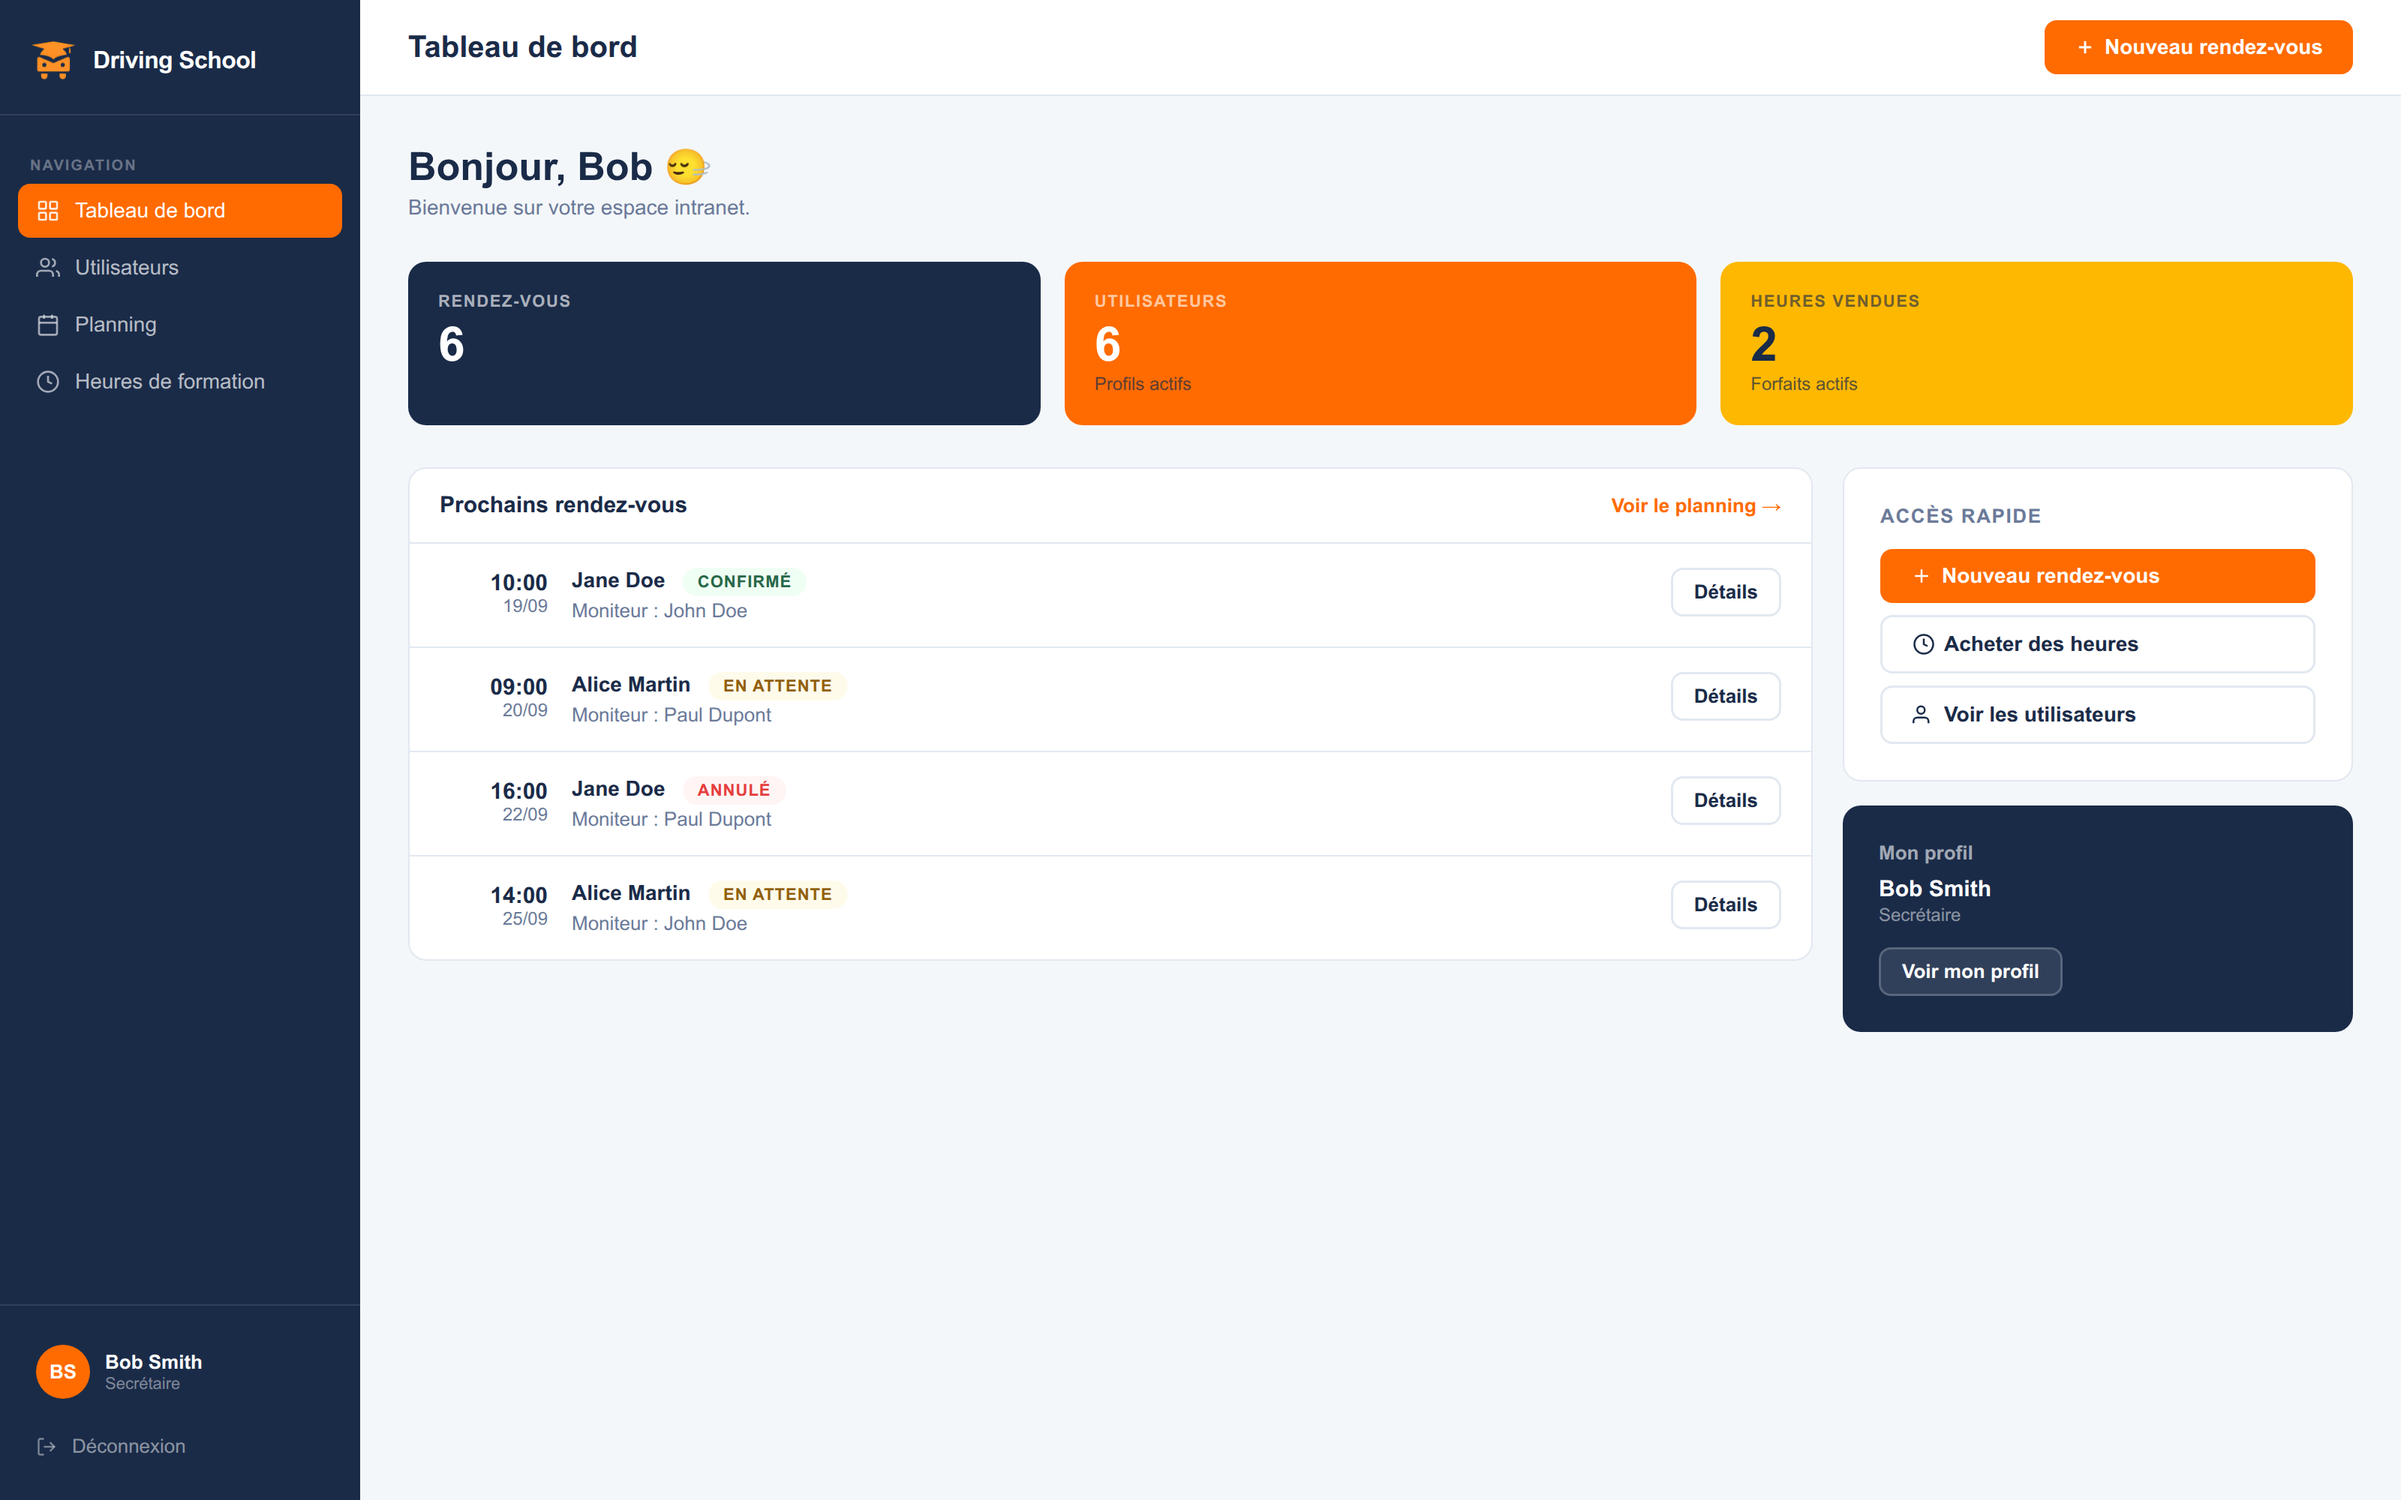
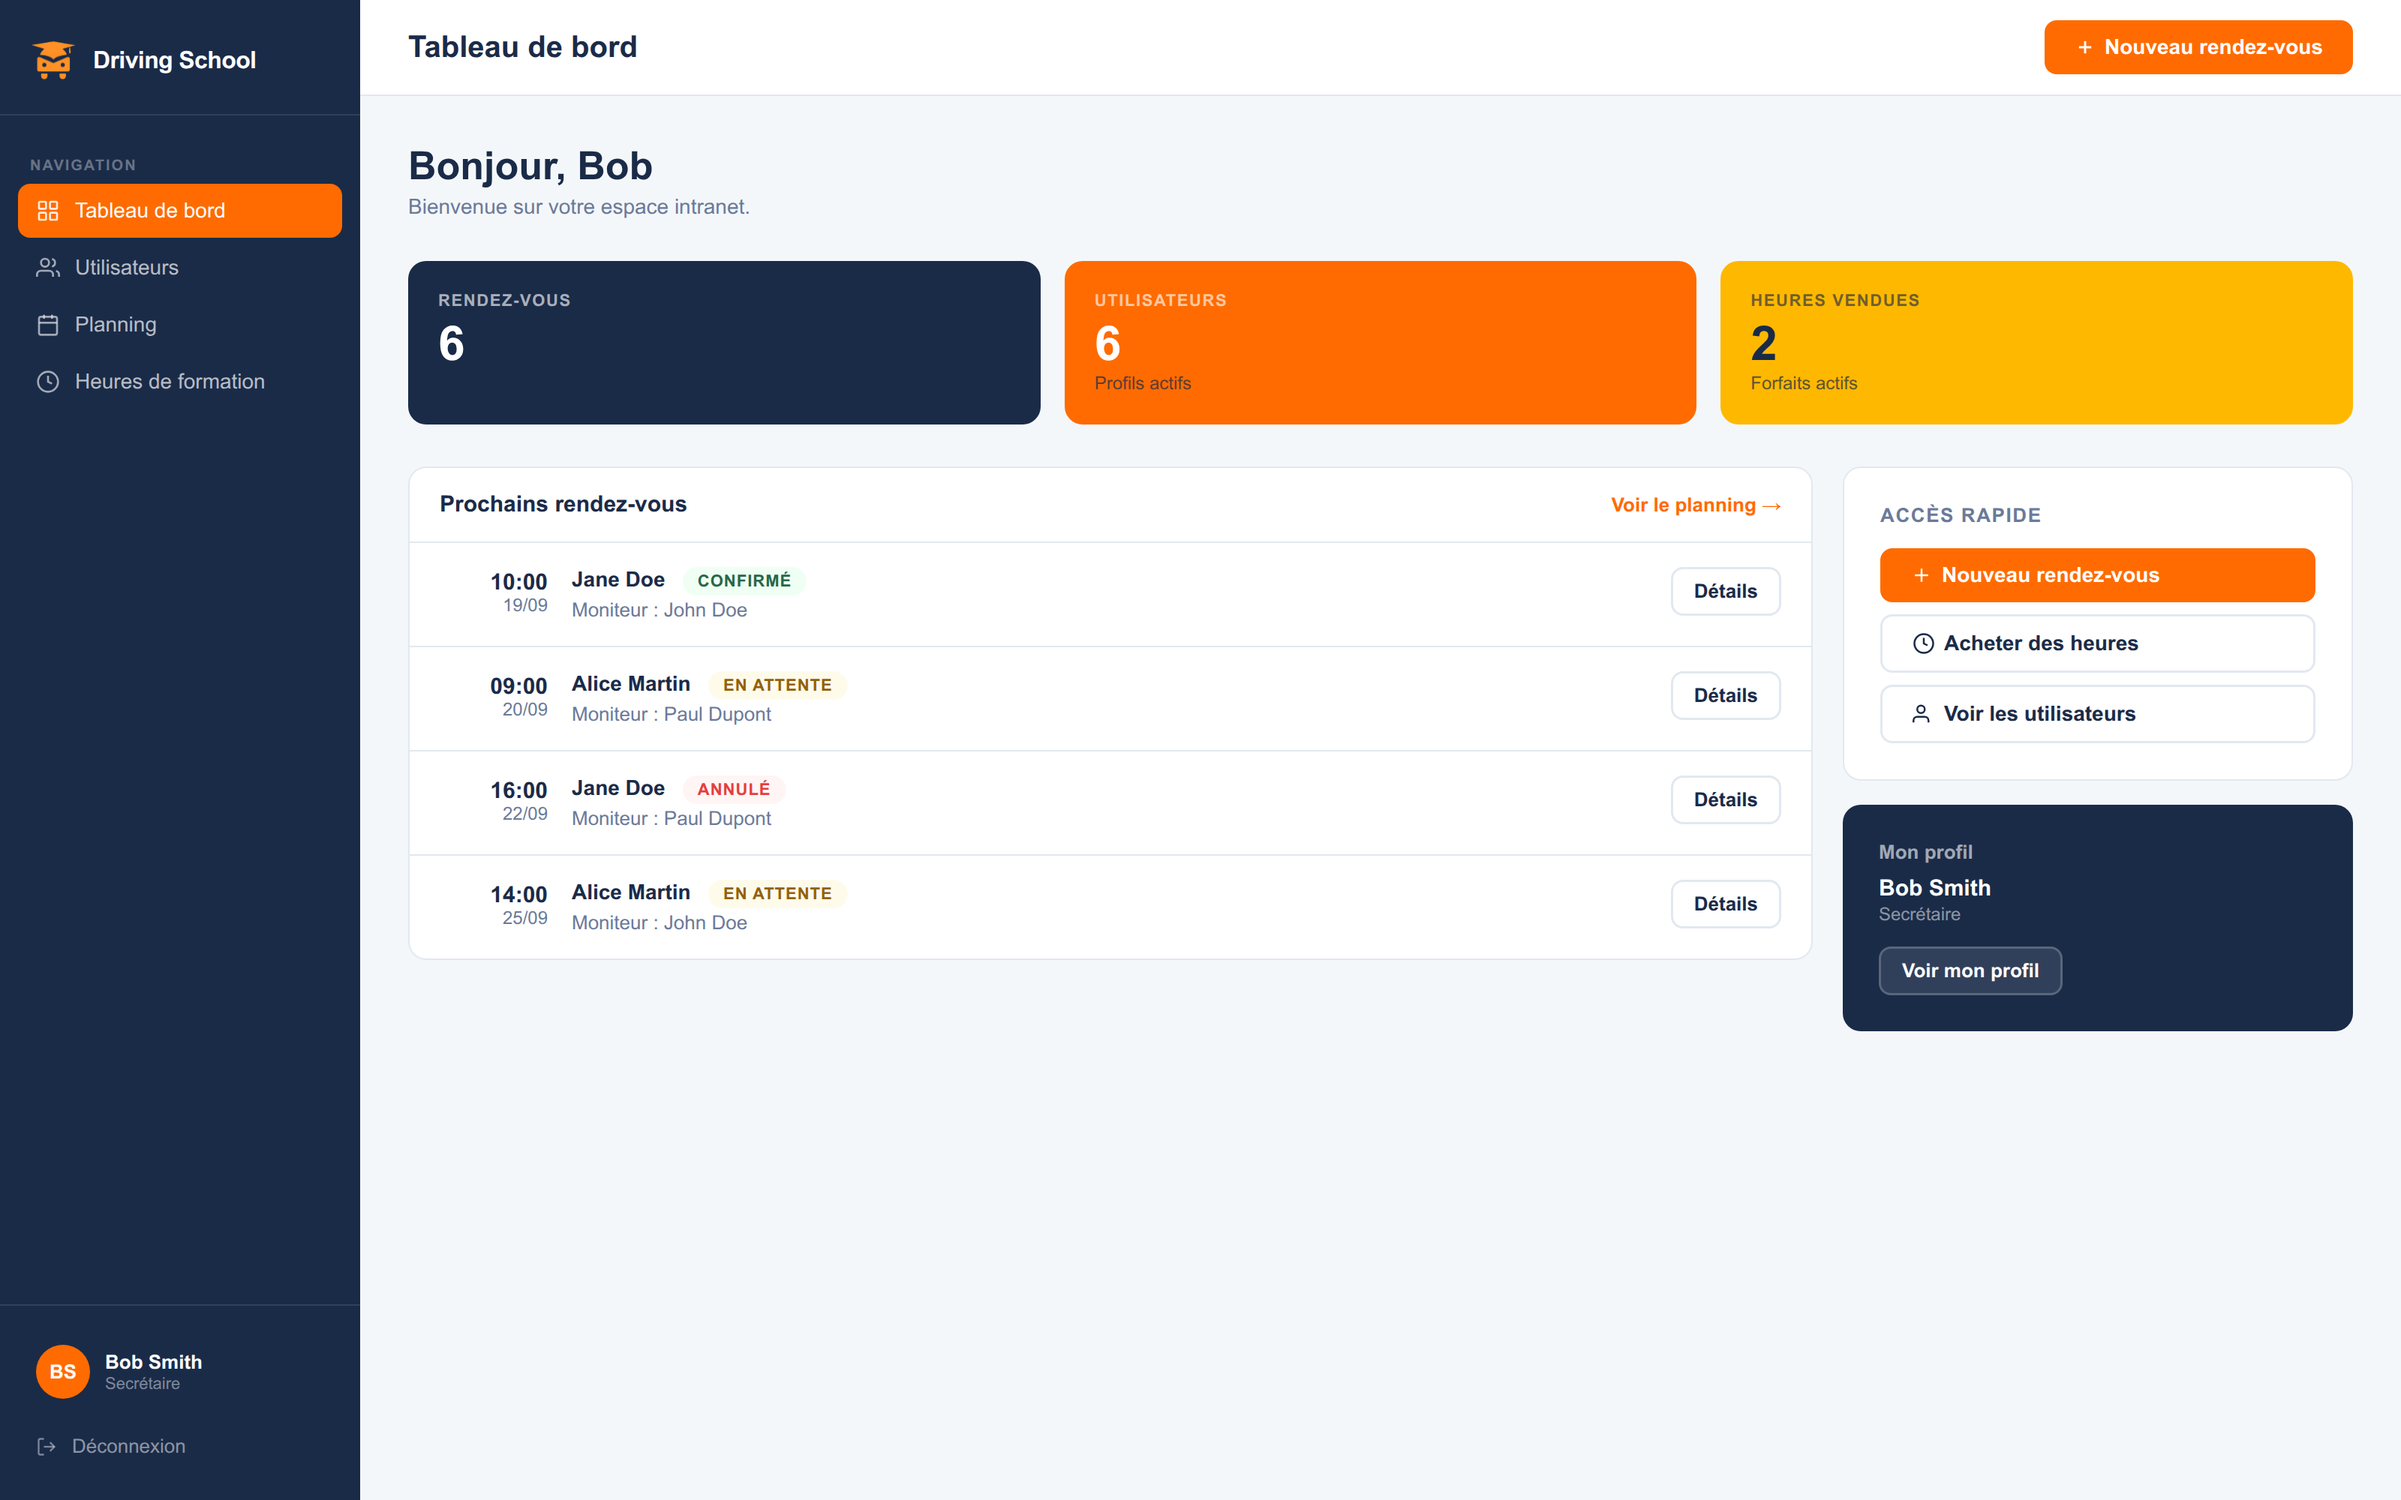
[FIX] Modification graphique page d'accueil et retake des screenshots

diff --git a/app/polls/templates/polls/home.html b/app/polls/templates/polls/home.html
@@ -21,7 +21,7 @@
 <!-- Welcome -->
 <div style="margin-bottom: 28px;">
     <h1 style="font-size:26px;font-weight:700;color:var(--text);margin:0;">
-        Bonjour, {{ request.user.first_name|default:request.user.username }}&nbsp;🙂↔
+        Bonjour, {{ request.user.first_name|default:request.user.username }}
     </h1>
     <p style="color:var(--muted);font-size:14px;margin-top:4px;margin-bottom:0;">
         Bienvenue sur votre espace intranet.
